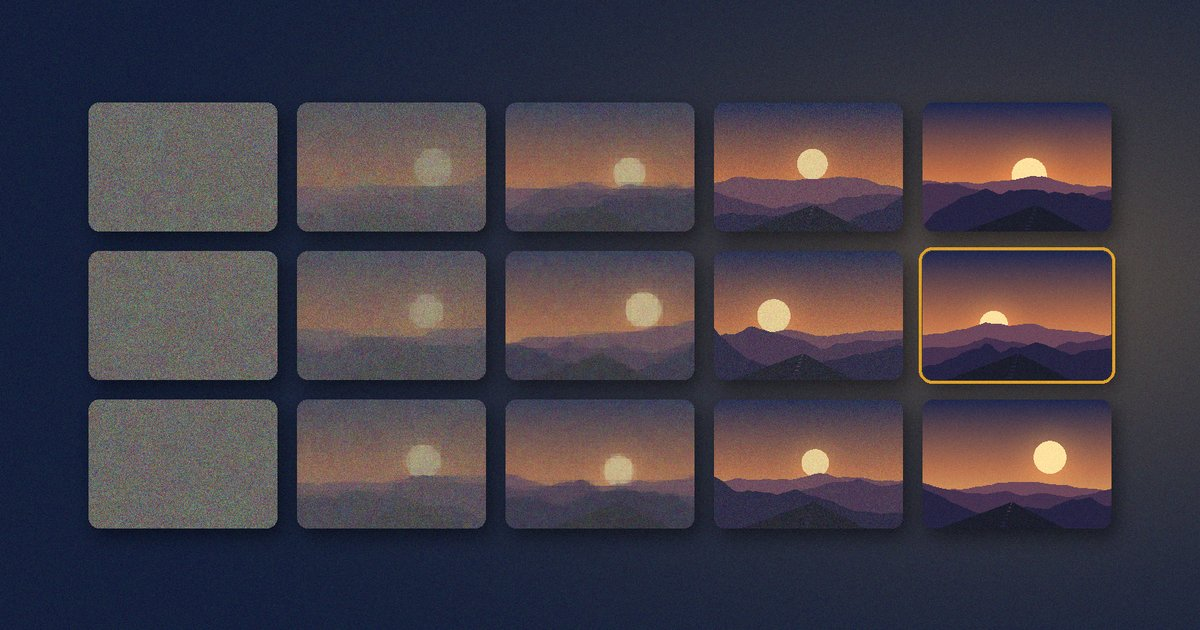
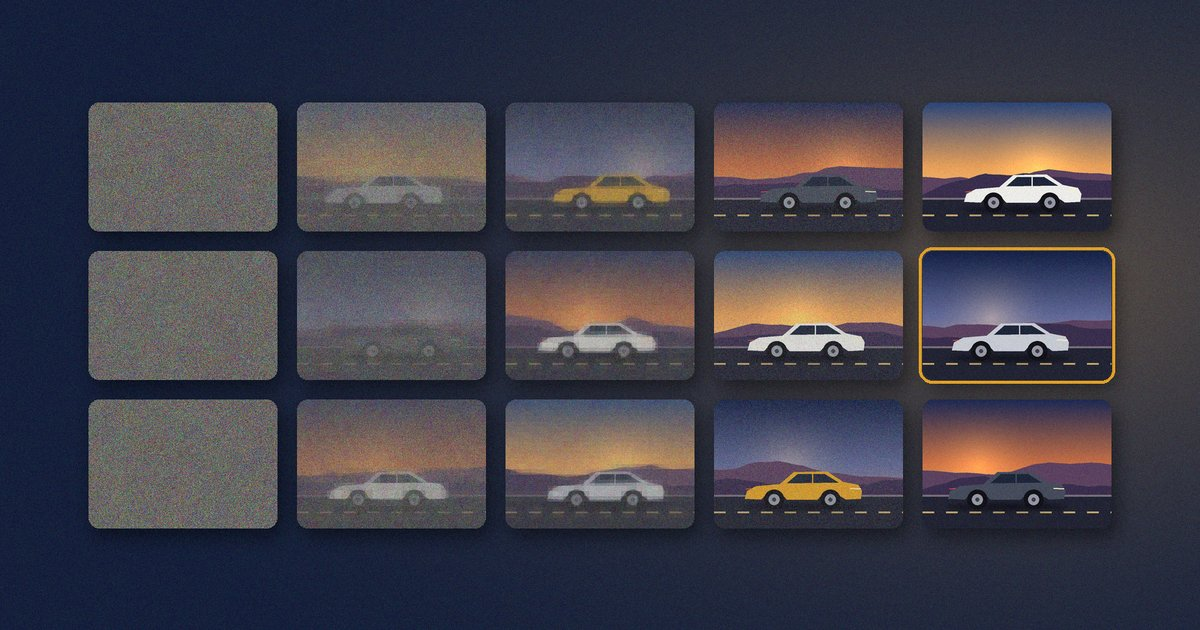
Home: keep only the Top 2% credential; Marketing Watch issue 1: car-ad illustration
Claude-Session: https://claude.ai/code/session_015BTTMC4nR81z8qXjXkn26h

Changed region(s): [[0.0617, 0.1508, 0.925, 0.3619], [0.0617, 0.3921, 0.925, 0.6032], [0.0617, 0.6333, 0.925, 0.8444]]

diff --git a/scripts/mw/img_issue01.py b/scripts/mw/img_issue01.py
@@ -1,112 +1,129 @@
-"""Hero illustration for Marketing Watch issue 1 (generative AI ad images).
-A grid of small 'ad' landscapes that resolve from diffusion noise (left) to finished images (right).
-Original artwork rendered with numpy/PIL; no third-party imagery."""
+"""Hero illustration for Marketing Watch issue 1 (generative AI car ads).
+A grid of car-ad banners that resolve from diffusion noise (left) into finished ads (right); the best variant is
+framed in amber. Original artwork (numpy/PIL), generic car shapes, no brands or third-party imagery."""
 import numpy as np
 from PIL import Image, ImageDraw, ImageFilter
 from pathlib import Path
 
-rng = np.random.default_rng(7)
-W, H = 1600, 900
 NAVY = np.array([21, 32, 59]); AMBER = np.array([224, 161, 42])
+SS = 3  # supersampling for smooth car edges
 
 
 def ridge(n, rough, seed):
     r = np.random.default_rng(seed)
     y = np.zeros(n)
-    for k, amp in enumerate([1, .5, .25, .12, .06]):
+    for k, amp in enumerate([1, .5, .25, .12]):
         f = 2 ** (k + 1)
-        pts = r.uniform(-1, 1, f + 2)
-        y += amp * np.interp(np.linspace(0, f + 1, n), np.arange(f + 2), pts)
+        y += amp * np.interp(np.linspace(0, f + 1, n), np.arange(f + 2), r.uniform(-1, 1, f + 2))
     return y * rough
 
 
-def scene(w, h, seed, hue_shift):
-    r = np.random.default_rng(seed)
+def backdrop(w, h, seed, mood):
+    """Sky, sun glow, hills and a flat road band; mood shifts the palette (dusk, golden, blue hour)."""
     yy = np.linspace(0, 1, h)[:, None]
-    top = np.array([28, 40, 82]) + hue_shift * np.array([10, 0, -10])
-    mid = np.array([196, 110, 70]) + hue_shift * np.array([-20, 10, 20])
-    low = np.array([246, 196, 110])
-    sky = np.where(yy < .55, top + (mid - top) * (yy / .55), mid + (low - mid) * ((yy - .55) / .45))
-    img = np.repeat(sky[:, None, :], w, axis=1).reshape(h, w, 3).astype(float)
-    # sun
-    sx, sy, sr = r.uniform(.25, .75) * w, r.uniform(.42, .58) * h, r.uniform(.07, .1) * w
+    top, mid, low = [np.array(c, float) for c in mood]
+    sky = np.where(yy < .5, top + (mid - top) * (yy / .5), mid + (low - mid) * ((yy - .5) / .5))
+    img = np.repeat(sky[:, None, :], w, axis=1).reshape(h, w, 3)
     X, Y = np.meshgrid(np.arange(w), np.arange(h))
+    r = np.random.default_rng(seed)
+    sx, sy = r.uniform(.2, .8) * w, .52 * h
     d = np.sqrt((X - sx) ** 2 + (Y - sy) ** 2)
-    glow = np.clip(1 - d / (sr * 3.2), 0, 1) ** 2
-    img += glow[..., None] * np.array([60, 45, 10])
-    img[d < sr] = np.array([255, 226, 160])
-    # mountain layers
-    cols = [np.array([110, 72, 92]), np.array([70, 50, 80]), np.array([38, 36, 66])]
-    bases = [.62, .7, .8]
-    for i, (c, b) in enumerate(zip(cols, bases)):
-        line = (b + ridge(w, .07 + .03 * i, seed * 10 + i)) * h
-        mask = Y > line[None, :]
-        img[mask] = c
-    # road
-    road = np.zeros((h, w), bool)
-    for y in range(int(.8 * h), h):
-        t = (y - .8 * h) / (.2 * h)
-        cx = w * (.5 + .08 * np.sin(seed)) + (1 - t) * .05 * w
-        half = 4 + t * w * .32
-        road[y, int(max(0, cx - half)):int(min(w, cx + half))] = True
-        if int(t * 14) % 2 == 0:
-            lw = 1 + t * 3
-            road[y, int(cx - lw):int(cx + lw)] = False
-    img[road] = np.array([28, 30, 44])
+    img += (np.clip(1 - d / (w * .35), 0, 1) ** 2)[..., None] * np.array([70, 50, 15])
+    for i, (c, b) in enumerate(zip([(92, 66, 96), (58, 46, 78)], [.56, .63])):
+        line = (b + ridge(w, .06, seed * 7 + i)) * h
+        img[Y > line[None, :]] = c
+    road_top = int(.74 * h)
+    img[road_top:] = np.array([34, 36, 52])
+    img[road_top:road_top + max(1, h // 60)] = np.array([120, 110, 120])          # road edge highlight
+    for x in range(0, w, w // 8):                                                   # lane dashes
+        img[int(.87 * h):int(.87 * h) + max(1, h // 70), x:x + w // 16] = np.array([200, 170, 110])
     return np.clip(img, 0, 255)
 
 
+def car(draw, cx, base, L, body, glass, s):
+    """Generic modern crossover in side view; cx = centre x, base = ground y, L = length (all in supersampled px)."""
+    H = L * .30
+    x0 = cx - L / 2
+    P = lambda fx, fy: (x0 + fx * L, base - fy * H)
+    body_pts = [P(0, .22), P(.02, .45), P(.10, .58), P(.30, .64), P(.42, .98), P(.70, 1.0), P(.84, .70),
+                P(.97, .62), P(1.0, .45), P(.99, .22), P(.86, .20), P(.80, .34), P(.66, .34), P(.62, .20),
+                P(.36, .20), P(.32, .34), P(.18, .34), P(.14, .20)]
+    draw.polygon(body_pts, fill=body)
+    # window band
+    draw.polygon([P(.36, .66), P(.45, .92), P(.68, .93), P(.80, .68)], fill=glass)
+    draw.line([P(.58, .92), P(.58, .66)], fill=body, width=int(L * .012))
+    # light strip + shadow under car
+    draw.line([P(.90, .52), P(.99, .50)], fill=(255, 236, 190), width=int(L * .012))
+    draw.line([P(.01, .50), P(.06, .52)], fill=(230, 80, 60), width=int(L * .01))
+    for fx in (.25, .73):
+        wx, wy = P(fx, .20)
+        R = L * .085
+        draw.ellipse([wx - R, wy - R, wx + R, wy + R], fill=(18, 18, 24))
+        r2 = R * .55
+        draw.ellipse([wx - r2, wy - r2, wx + r2, wy + r2], fill=(150, 152, 165))
+        r3 = R * .2
+        draw.ellipse([wx - r3, wy - r3, wx + r3, wy + r3], fill=(60, 62, 72))
+
+
+def tile(w, h, seed, mood, body):
+    bg = backdrop(w * SS, h * SS, seed, mood)
+    im = Image.fromarray(bg.astype("uint8"))
+    shadow = Image.new("L", im.size, 0)
+    L = w * SS * .62
+    cx = w * SS * (.5 + np.random.default_rng(seed).uniform(-.08, .08))
+    base = h * SS * .83
+    ImageDraw.Draw(shadow).ellipse([cx - L * .52, base - L * .03, cx + L * .52, base + L * .035], fill=150)
+    im.paste((10, 10, 16), (0, 0), shadow.filter(ImageFilter.GaussianBlur(L * .02)))
+    car(ImageDraw.Draw(im), cx, base, L, body, (30, 38, 58), SS)
+    return np.array(im.resize((w, h), Image.LANCZOS)).astype(float)
+
+
 def noisify(img, t, seed):
-    r = np.random.default_rng(seed)
     if t <= 0:
         return img
     h, w, _ = img.shape
-    noise = r.normal(128, 70, (h, w, 3))
-    tint = NAVY * .5 + AMBER * .2
-    noise = noise * .7 + tint * .3
+    noise = np.random.default_rng(seed).normal(128, 70, (h, w, 3)) * .7 + (NAVY * .5 + AMBER * .2) * .3
     out = img * (1 - t) + noise * t
-    if t > .35:  # coarse blocks at high noise
+    if t > .35:
         b = int(2 + t * 14)
         small = Image.fromarray(np.clip(out, 0, 255).astype("uint8")).resize((max(1, w // b), max(1, h // b)), Image.BILINEAR)
         out = np.array(small.resize((w, h), Image.NEAREST)).astype(float) * .55 + out * .45
     return np.clip(out, 0, 255)
 
 
-# background: deep navy with a warm glow on the right
+MOODS = [((30, 42, 84), (200, 112, 70), (246, 196, 112)),     # dusk
+         ((44, 70, 120), (232, 160, 90), (252, 220, 150)),     # golden hour
+         ((22, 34, 70), (96, 104, 150), (196, 160, 150))]      # blue hour
+BODIES = [(236, 236, 232), (198, 202, 210), (224, 161, 42), (70, 76, 92), (236, 236, 232)]
+
+W, H = 1600, 900
 X, Y = np.meshgrid(np.linspace(0, 1, W), np.linspace(0, 1, H))
 bg = NAVY + (np.clip(1 - np.sqrt((X - .85) ** 2 + (Y - .45) ** 2) / .9, 0, 1) ** 2)[..., None] * np.array([70, 48, 12])
 canvas = Image.fromarray(np.clip(bg, 0, 255).astype("uint8")).convert("RGBA")
-
-cols, rows = 5, 3
-cw, ch, gap = 252, 172, 26
+cols, rows, cw, ch, gap = 5, 3, 252, 172, 26
 x0 = (W - (cols * cw + (cols - 1) * gap)) // 2
 y0 = (H - (rows * ch + (rows - 1) * gap)) // 2
-shadow = Image.new("RGBA", (W, H), (0, 0, 0, 0))
-sd = ImageDraw.Draw(shadow)
+sh = Image.new("RGBA", (W, H), (0, 0, 0, 0))
+sd = ImageDraw.Draw(sh)
 for r_ in range(rows):
     for c in range(cols):
         x, y = x0 + c * (cw + gap), y0 + r_ * (ch + gap)
         sd.rounded_rectangle([x + 6, y + 10, x + cw + 6, y + ch + 10], 14, fill=(0, 0, 0, 120))
-canvas.alpha_composite(shadow.filter(ImageFilter.GaussianBlur(12)))
+canvas.alpha_composite(sh.filter(ImageFilter.GaussianBlur(12)))
 for r_ in range(rows):
     for c in range(cols):
-        seed = 3 + r_ * cols + c
+        seed = 11 + r_ * cols + c
         t = [1.0, .72, .45, .2, 0][c] * (1 - .08 * r_ * (c > 0))
-        tile = noisify(scene(cw, ch, seed, (c - 2) * .15 + (r_ - 1) * .2), t, seed)
-        tile = Image.fromarray(tile.astype("uint8")).convert("RGBA")
+        t_img = noisify(tile(cw, ch, seed, MOODS[(r_ + c) % 3], BODIES[(r_ * 2 + c) % 5]), t, seed)
         m = Image.new("L", (cw, ch), 0)
         ImageDraw.Draw(m).rounded_rectangle([0, 0, cw - 1, ch - 1], 14, fill=255)
         x, y = x0 + c * (cw + gap), y0 + r_ * (ch + gap)
-        canvas.paste(tile, (x, y), m)
-        if c == cols - 1 and r_ == 1:  # the 'best' variant gets an amber ring
+        canvas.paste(Image.fromarray(t_img.astype("uint8")).convert("RGBA"), (x, y), m)
+        if c == cols - 1 and r_ == 1:
             ImageDraw.Draw(canvas).rounded_rectangle([x - 5, y - 5, x + cw + 4, y + ch + 4], 18, outline=(224, 161, 42, 255), width=4)
-
-# film grain
-arr = np.array(canvas.convert("RGB")).astype(float)
-arr += rng.normal(0, 6, arr.shape)
+arr = np.array(canvas.convert("RGB")).astype(float) + np.random.default_rng(3).normal(0, 6, (H, W, 3))
 out = Image.fromarray(np.clip(arr, 0, 255).astype("uint8"))
 here = Path(__file__).resolve().parents[2] / "watch" / "images"
 out.save(here / "issue-01-generative-ai-ad-images.jpg", quality=86, optimize=True, progressive=True)
-og = out.resize((1200, 675), Image.LANCZOS).crop((0, 22, 1200, 652))
-og.save(here / "issue-01-generative-ai-ad-images-og.jpg", quality=85, optimize=True)
+out.resize((1200, 675), Image.LANCZOS).crop((0, 22, 1200, 652)).save(here / "issue-01-generative-ai-ad-images-og.jpg", quality=85, optimize=True)
 print("ok")

diff --git a/scripts/fetch_publications.py b/scripts/fetch_publications.py
@@ -445,11 +445,6 @@ def render_credentials(pubs: list[dict]) -> str:
     arts = sum(1 for p in visible(pubs) if p["type"] == "journal-article")
     month = datetime.date.fromisoformat(str(snap["as_of"])).strftime("%B %Y") if snap.get("as_of") else ""
     tiles = [("Top 2%", "most-cited scientists in marketing worldwide, Stanford–Elsevier ranking, 2023–2026")]
-    if t:
-        tiles.append((f"{t['citations']:,}", f"citations on Google Scholar ({month})"))
-        tiles.append((str(t["h_index"]), "h-index on Google Scholar"))
-    tiles.append((str(arts), "journal articles"))
-    tiles.append(("5", "countries taught in: Poland, UK, Australia, Ghana, Vietnam"))
     return ("```{=html}\n<ul class=\"cred-tiles\">" + "".join(
         f'<li><span class="cred-n">{esc(n)}</span><span class="cred-l">{esc(l)}</span></li>' for n, l in tiles)
         + "</ul>\n```\n")
